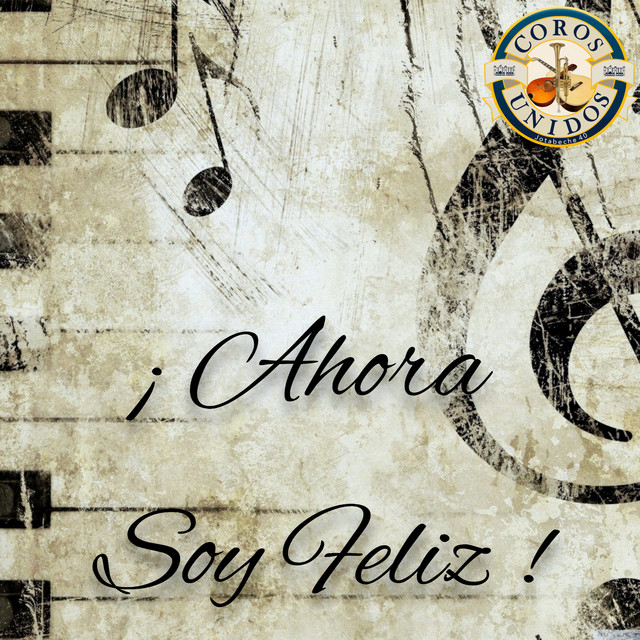
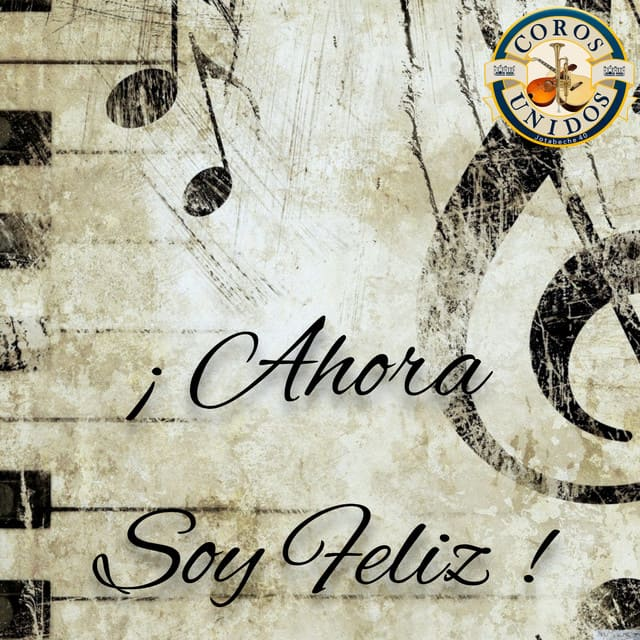
Se modifico el cambio de Auto Dj a Live. También se bajo el peso de las imagenes de las caratulas.

diff --git a/src/views/RadioView.jsx b/src/views/RadioView.jsx
@@ -11,6 +11,9 @@ const RadioView = () => {
   const volumeRef = useRef(null);
   const playerCardRef = useRef(null);
   const currentSongRef = useRef("");
+  const errorTimerRef = useRef(null);
+  const waitingForLiveRef = useRef(false);
+  const isLiveModeRef = useRef(false);
 
   const normalizeSongName = (text) => {
     return (text || "")
@@ -108,6 +111,47 @@ const RadioView = () => {
 
         const data = await response.json();
 
+        if (data.error) {
+
+          // MOSTRANDO EL LIVE
+          if (isLiveModeRef.current) {
+            return;
+          }
+
+          // ESPERANDO CONFIRMAR LIVE
+          if (!waitingForLiveRef.current) {
+
+            waitingForLiveRef.current = true;
+
+            errorTimerRef.current = setTimeout(() => {
+
+              isLiveModeRef.current = true;
+
+              setNowPlaying({
+                title: "En Vivo",
+                artist: "La Voz Del Triunfo Pentecostal"
+              });
+
+              setCoverUrl(Logo);
+
+            }, 10000);
+
+          }
+
+          return;
+        }
+
+        // METADATA OBTENIDA CORRECTAMENTE
+        if (errorTimerRef.current) {
+
+          clearTimeout(errorTimerRef.current);
+          errorTimerRef.current = null;
+        }
+
+        waitingForLiveRef.current = false;
+
+        isLiveModeRef.current = false;
+
         const songIdentifier = `${data.artist}-${data.song}`;
 
         if (data.song && data.artist && songIdentifier !== currentSongRef.current) {
@@ -164,14 +208,14 @@ const RadioView = () => {
     };
 
     fetchMetadata();
-    const interval = setInterval(fetchMetadata, 4000);
+    const interval = setInterval(fetchMetadata, 5000);
 
     return () => clearInterval(interval);
   }, []);
 
   return (
     <div className="pt-28 pb-20 px-4 min-h-screen transition-colors duration-500 bg-gradient-to-b from-stone-50 to-stone-100 dark:from-[#141211] dark:to-[#1a1816]">
-      {/* Elemento de Audio Invisible */}
+      {/* ELEMENTO DE AUDIO INVISIBLE */}
       <audio 
         ref={audioRef} 
         src={RADIO_CONFIG.streamUrl} 
@@ -188,7 +232,7 @@ const RadioView = () => {
       <div className="max-w-6xl mx-auto">
         <div className="grid lg:grid-cols-2 gap-12 lg:gap-8 items-center mb-16">
           
-          {/* Lado Izquierdo: Información */}
+          {/* LADO IZQUIERDO: INFORMACIÓN */}
           <RevealOnScroll direction="right">
             <div className="text-center lg:text-left space-y-6">
               {isLive && (
@@ -212,20 +256,20 @@ const RadioView = () => {
             </div>
           </RevealOnScroll>
 
-          {/* Lado Derecho: Reproductor de Alta Gama */}
+          {/* LADO DERECHO: REPRODUCOR DE ALTA GAMA */}
           <RevealOnScroll direction="left">
             <div className="flex justify-center w-full relative group">
               
-              {/* Resplandor de fondo dinámico */}
+              {/* RESPLANDOR DE FONDO DINÁMICO */}
               <div className={`absolute -inset-4 bg-gradient-to-tr from-[#3D6599]/20 to-[#C7DBEB]/20 rounded-[44px] blur-3xl opacity-70 transition-opacity duration-700 ${isPlaying ? 'opacity-100' : 'opacity-40'}`} />
 
-              {/* Contenedor Principal del Reproductor */}
+              {/* CONTENEDOR PRINCIPAL DEL REPRODUCOR */}
               <div 
                 ref={playerCardRef}
                 className="bg-white/80 dark:bg-[#1a1816]/90 backdrop-blur-xl rounded-[40px] p-8 md:p-10 shadow-[0_32px_64px_-16px_rgba(45,38,34,0.12)] dark:shadow-[0_40px_80px_-24px_rgba(0,0,0,0.7)] border border-white/60 dark:border-stone-800/60 relative w-full max-w-md flex flex-col items-center z-10 transition-transform duration-500 hover:scale-[1.01] overflow-hidden"
               >
                 
-                {/* Botón Menú Hamburguesa / Historial (Esquina Superior Derecha) */}
+                {/* BOTÓN MENÚ HAMBURGUESA / HISTORIAL (ESQUINA SUPERIOR DERECHA) */}
                 <button
                   onClick={() => setShowHistoryDrawer(!showHistoryDrawer)}
                   className="absolute top-6 right-6 p-2.5 rounded-full bg-stone-100/80 dark:bg-stone-800/80 text-stone-700 dark:text-stone-300 hover:text-[#3D6599] dark:hover:text-[#C7DBEB] hover:bg-stone-200/80 dark:hover:bg-stone-700/80 transition-all z-30 focus:outline-none"
@@ -235,13 +279,13 @@ const RadioView = () => {
                   {showHistoryDrawer ? <X size={20} /> : <ListMusic size={20} />}
                 </button>
 
-                {/* Panel Historial Desplazable (Drawer Lateral - Ancho máximo ~82%) */}
+                {/* PANEL HISTORIAL DESPLAZABLE */}
                 <div 
                   className={`absolute top-0 right-0 h-full w-[82%] sm:w-[78%] bg-white/95 dark:bg-[#181614]/95 backdrop-blur-2xl z-20 p-6 flex flex-col shadow-[-10px_0_30px_rgba(0,0,0,0.15)] border-l border-stone-200/50 dark:border-stone-800/60 transition-transform duration-500 ease-in-out ${
                     showHistoryDrawer ? 'translate-x-0' : 'translate-x-full'
                   }`}
                 >
-                  {/* Encabezado Drawer */}
+                  {/* ENCABEZADO DRAWER */}
                   <div className="flex items-center gap-2 pb-4 mb-4 border-b border-stone-200/60 dark:border-stone-800/60">
                     <History size={18} className="text-[#3D6599] dark:text-[#C7DBEB]" />
                     <h4 className="font-extrabold text-sm uppercase tracking-wider text-stone-800 dark:text-stone-100">
@@ -267,7 +311,7 @@ const RadioView = () => {
                     </p>
                   </div>
 
-                  {/* Lista de Canciones con Scroll Personalizado */}
+                  {/* LISTA DE CANCIONES SCROLL PERSONALIZADO */}
                   <div className="flex-1 overflow-y-auto pr-1.5 space-y-3 custom-scrollbar">
                     {songHistory.length > 0 ? (
                       songHistory.map((item, index) => (
@@ -307,7 +351,7 @@ const RadioView = () => {
                   </div>
                 </div>
 
-                {/* Zona de Carátula con Efecto Aura */}
+                {/* ZONA DE CARÁTULA CON EFECTO AURA */}
                 <div className="relative mb-8 group/cover mt-2">
                   <div className={`absolute inset-0 bg-[#3D6599]/30 rounded-3xl blur-xl transition-transform duration-1000 scale-95 ${isPlaying ? 'animate-pulse scale-105' : ''}`} />
                   
